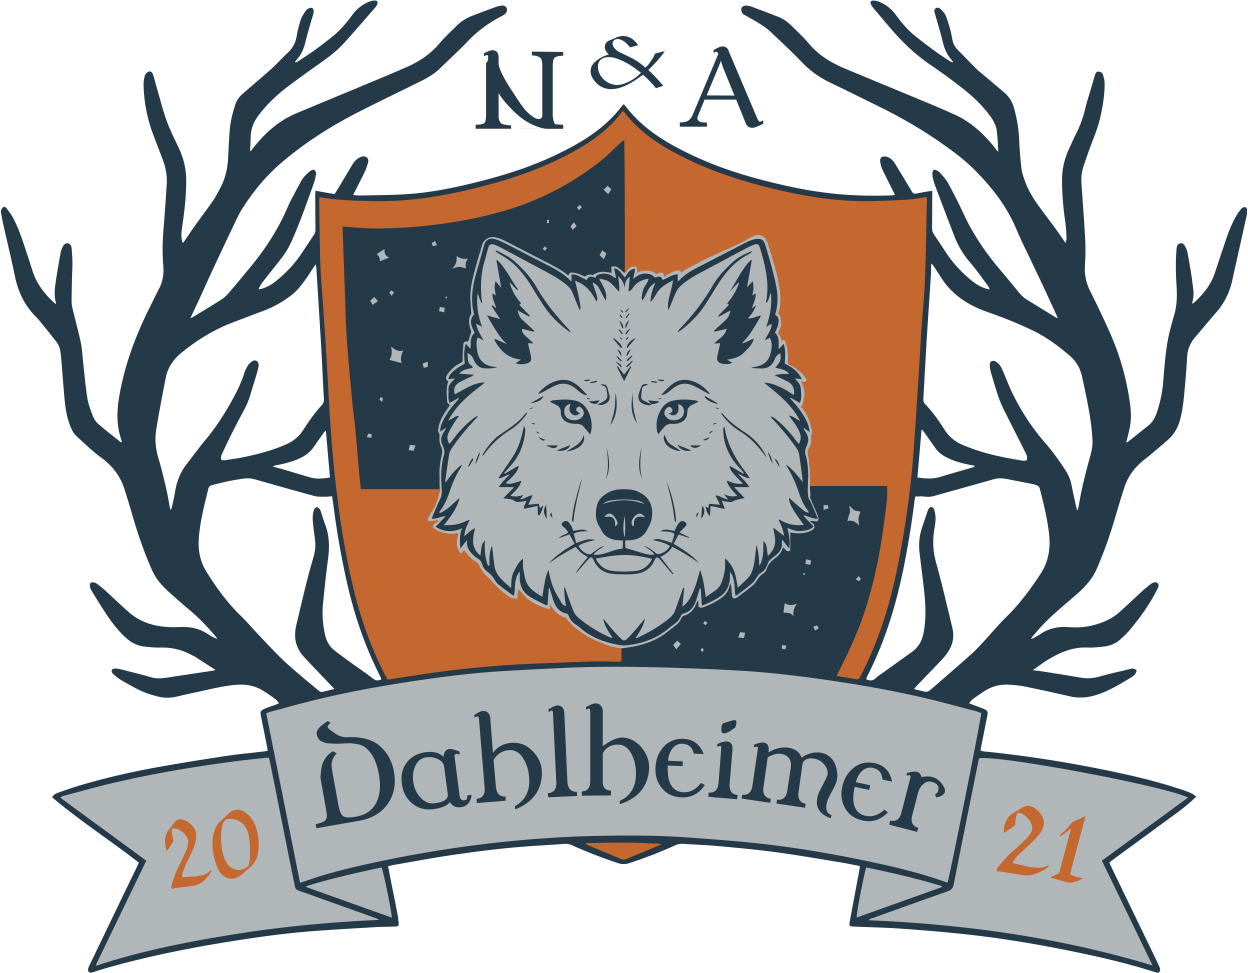
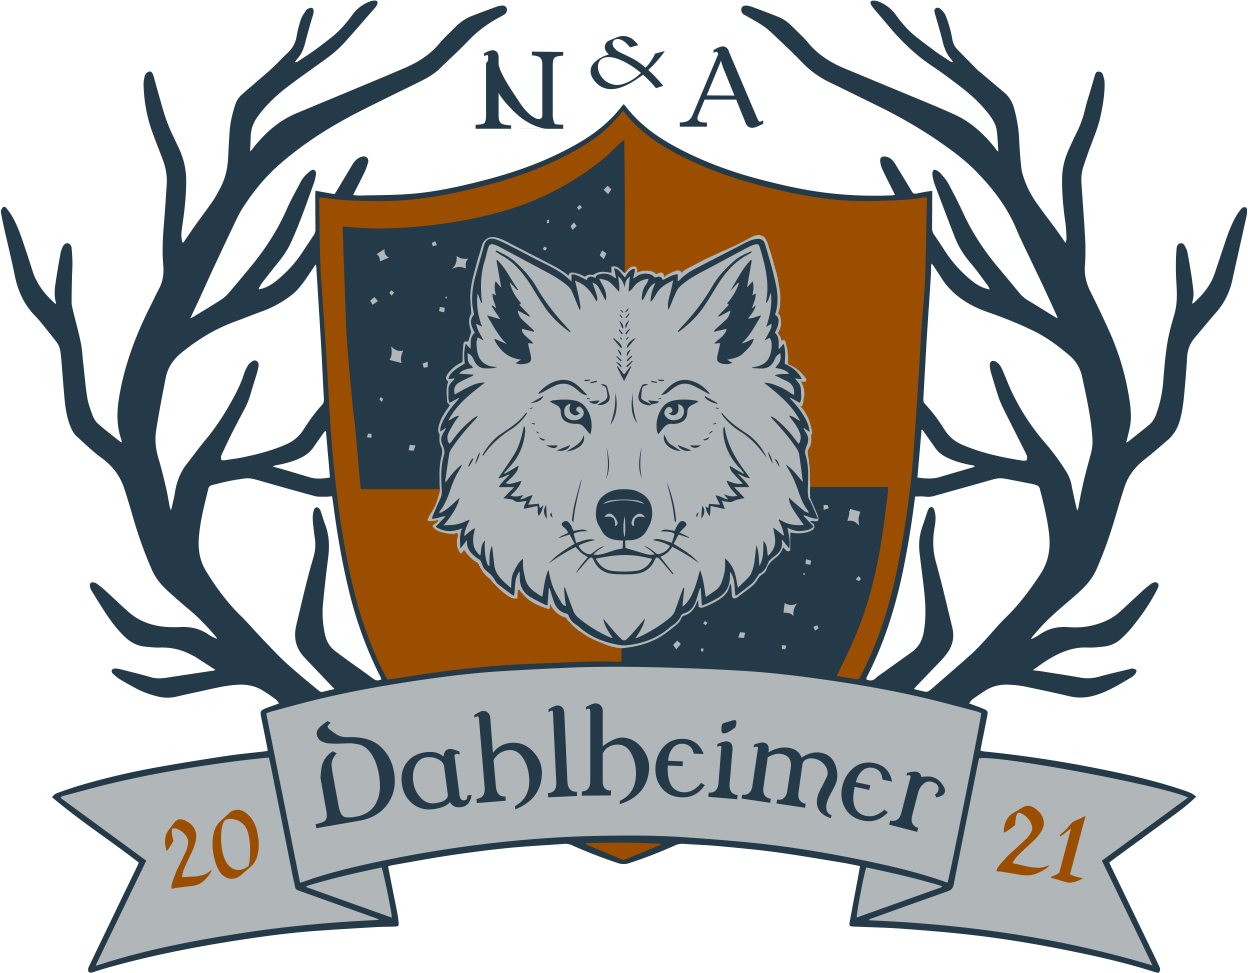
Modify Venue

diff --git a/event.html b/event.html
@@ -4,6 +4,7 @@
     <title>The Dahlheimers | Event</title>
     <link rel="stylesheet" href="./resources/css/general.css" type="text/css">
     <link rel="stylesheet" href="./resources/css/event.css" type="text/css">
+    <script async defer data-domain="thedahlheimers.com" src="https://analytics.phasematter.com/js/plausible.js"></script>
 </head>
 
 <body>
@@ -43,9 +44,8 @@
                     <div class="text-box">
                         <h3>Where?</h3>
                         <p>
-                            Riverview Event Hall<br>
-                            Eugene T. Mahoney State Park <br>
-                            28500 W Park Hwy <br>
+                            Quarry Oaks Golf Club<br>
+                            16600 Quarry Oaks Dr <br>
                             Ashland, NE <br>
                         </p>
                     </div>
@@ -58,10 +58,10 @@
                             5:30pm
                         </p>
                     </div>
-                    
+
                 </div>
                 <iframe 
-                    src="https://www.google.com/maps/embed?pb=!1m14!1m8!1m3!1d12039.993462653241!2d-96.3139126!3d41.0252917!3m2!1i1024!2i768!4f13.1!3m3!1m2!1s0x0%3A0xd1e25e87f00410b3!2sEugene%20T.%20Mahoney%20State%20Park!5e0!3m2!1sen!2sus!4v1610398239553!5m2!1sen!2sus" 
+                    src="https://www.google.com/maps/embed?pb=!1m14!1m8!1m3!1d12042.833819280539!2d-96.276712!3d41.009754!3m2!1i1024!2i768!4f13.1!3m3!1m2!1s0x0%3A0x95955204d5faaa89!2sQuarry%20Oaks%20Golf%20Club!5e0!3m2!1sen!2sus!4v1621988528367!5m2!1sen!2sus" 
                     frameborder="0" 
                     style="border:0;" 
                     allowfullscreen="" 
@@ -77,24 +77,23 @@
                     <div class="text-box">
                         <h3>Location</h3>
                         <p>
-                            Following the ceremony, the reception will be held across the street at the Strategic Air Command & Aerospace Museum. Guests are invited to take 
-                            advantage of Ollie the Trolley as a shuttle from the ceremony to the reception location.
+                            Following the ceremony, the reception will be held down the street at the Strategic Air Command & Aerospace Museum. Trolley service will be provided
+                            to shuttle guests from the ceremony to the reception.
                         </p>
                     </div>
 
                     <div class="text-box">
                         <h3>Food</h3>
                         <p>
-                            Help yourself to a BBQ buffet including Pork Sliders, Gourmet Macaroni & Cheese, Baked Beans, Salad, and a Mashed Potato Bar. Water will be provided
-                            free of charge, and beverages other than water can be purchased at the cash bar. 
+                            Help yourself to a BBQ buffet including Pork Sliders, Gourmet Macaroni & Cheese, Baked Beans, Salad, and a Mashed Potato Bar. Drinks from the bar
+                            are on us from 6:30pm - 8pm, and will be available for cash for the remainder of the event.
                         </p>
                     </div>
 
                     <div class="text-box">
                         <h3>Music</h3>
                         <p>
-                            During the reception, please enjoy the live musical stylings of Frankie Lee and the Infernos! There will be plenty of room to dance, 
-                            so please do! We can't wait to see all your moves.
+                            Music will be played throughout the reception, so please dance to your heart's content. We can't wait to see your moves!
                         </p>
                     </div>
                 </div>

diff --git a/rsvp.html b/rsvp.html
@@ -4,6 +4,7 @@
     <title>The Dahlheimers | RSVP</title>
     <link rel="stylesheet" href="./resources/css/general.css" type="text/css">
     <link rel="stylesheet" href="./resources/css/rsvp.css" type="text/css">
+    <script async defer data-domain="thedahlheimers.com" src="https://analytics.phasematter.com/js/plausible.js"></script>
 </head>
 
 <body>
@@ -47,28 +48,23 @@
                             <section class="second">
                                 <span>Will you be attending?</span><br>
                                 <select name="entry.420027344" id="attending" required>
-                                    <option value="yes">Yes</option>
-                                    <option value="no">No</option>
+                                    <option value="Omaha">Yes - The Omaha Ceremony/Reception</option>
+                                    <option value="Vegas">Yes - The Vegas Reception</option>
+                                    <option value="Both">Yes - Both!</option>
+                                    <option value="Neither">Not attending either event</option>
                                 </select>
                             </section>
                         </div>
                         
                         
-                        <div id="if-attending" class="line">
-                            <section class="first">
-                                <label for="party-number"># Attending:</label><br>
-                                <input type="number" name="entry.1246041859" id="party-number" placeholder="1" required><br>
-                            </section>
-
-                            <section class="second">
-                                <label for="party-list">Their Names:</label><br>
+                        <section id="if-attending">
+                                <label for="party-list">Who's coming with you?</label><br>
                                 <textarea name="entry.2096589025" id="party-list" cols="30" rows="3" placeholder="First Last, First Last, First Last" required></textarea>
-                            </section>
-                        </div>
+                        </section>
                       
 
                         <section>
-                            <label for="diet-restrictions">Dietary Restrictions?</label><br>
+                            <label for="diet-restrictions">Any dietary restrictions?</label><br>
                             <textarea name="entry.2016472176" id="diet-restrictions" cols="30" rows="5" placeholder="ie; allergies, vegetarian, vegan..."></textarea>
                         </section>
 

diff --git a/lodging.html b/lodging.html
@@ -4,6 +4,7 @@
     <title>The Dahlheimers | Lodging</title>
     <link rel="stylesheet" href="./resources/css/general.css" type="text/css">
     <link rel="stylesheet" href="./resources/css/lodging.css" type="text/css">
+    <script async defer data-domain="thedahlheimers.com" src="https://analytics.phasematter.com/js/plausible.js"></script>
 </head>
 
 <body>
@@ -35,7 +36,7 @@
             <section id="intro" class="text">
                 <h2>Lodging</h2>
                 <div class="text-box">
-                    <p>There are multiple lodging options available at Mahoney State Park for guests who would like to stay on property. Rooms are available in Peter Kiewit Lodge starting at $90/night, or 
+                    <p>There are multiple lodging options available at Mahoney State Park for guests who would like to stay nearby. Rooms are available in Peter Kiewit Lodge starting at $90/night, or 
                         stay in a cabin with 2-6 bedrooms starting at $170/night. 
                     </p>
                     <p>

diff --git a/resources/css/rsvp.css b/resources/css/rsvp.css
@@ -48,7 +48,7 @@ input, select, textarea, button {
 
 button {
     color: rgba(213, 211, 210, 1);
-    background-color: rgba(196, 104, 48, 1);
+    background-color: rgba(156, 78, 0, 1);
     border: none;
     border-radius: 1rem;
     padding: 0.5rem;
@@ -58,7 +58,7 @@ button {
 
 button:hover {
     color: white;
-    background-color: rgba(196, 104, 48, 0.5);
+    background-color: rgba(156, 78, 0, 0.5);
 }
 
 @media only screen and (orientation: portrait) {
@@ -72,5 +72,13 @@ button:hover {
 
     .first, .second {
         padding: 0;
+    }
+
+    form, textarea, select, input, button {
+        font-size: 2rem;
+    }
+
+    option {
+        font-size: 1rem;
     }
 }

diff --git a/resources/css/lodging.css b/resources/css/lodging.css
@@ -19,7 +19,7 @@
 }
 
 a {
-    color: rgba(196, 104, 48, 1);
+    color: rgba(156, 78, 0, 1);
     text-decoration: none;
     transition-property: color;
     transition-duration: 0.5s;
@@ -27,7 +27,7 @@ a {
 
 button {
     color: rgba(213, 211, 210, 1);
-    background-color: rgba(196, 104, 48, 1);
+    background-color: rgba(156, 78, 0, 1);
     font-size: 1rem;
     border: none;
     border-radius: 1rem;
@@ -37,10 +37,10 @@ button {
 }
 
 a:hover {
-    color: rgba(196, 104, 48, 0.5);
+    color: rgba(147, 72, 0, 0.5);
 }
 
 button:hover {
     color: white;
-    background-color: rgba(196, 104, 48, 0.5);
+    background-color: rgba(147, 72, 0, 0.5);
 }

diff --git a/resources/css/general.css b/resources/css/general.css
@@ -115,11 +115,11 @@ nav a {
 }
 
 nav a:hover {
-    color:rgba(196, 104, 48, 1);
+    color:rgba(156, 78, 0, 1);
 }
 
 #active {
-    border-bottom: 2px solid rgba(196, 104, 48, 1);
+    border-bottom: 2px solid rgba(156, 78, 0, 1);
 }
 
 #left-nav,
@@ -164,7 +164,7 @@ main section {
     font-weight: 200;
     font-size: 2rem;
     text-transform: capitalize;
-    color: rgba(196, 104, 48, 1);
+    color: rgba(156, 78, 0, 1);
     border-radius: 0.65rem;
 }
 
@@ -220,7 +220,7 @@ footer {
 }
 
 #credit a {
-    color: rgba(196, 104, 48, 1);
+    color: rgba(156, 78, 0, 1);
     text-decoration: none;
 }
 

diff --git a/index.html b/index.html
@@ -5,7 +5,7 @@
     <title>The Dahlheimers | Wedding</title>
     <link rel="stylesheet" href="./resources/css/general.css" type="text/css">
     <link rel="stylesheet" href="./resources/css/index.css" type="text/css">
-    
+    <script async defer data-domain="thedahlheimers.com" src="https://analytics.phasematter.com/js/plausible.js"></script>
 </head>
 
 <body>

diff --git a/registry.html b/registry.html
@@ -4,6 +4,7 @@
     <title>The Dahlheimers | Registry</title>
     <link rel="stylesheet" href="./resources/css/general.css" type="text/css">
     <link rel="stylesheet" href="./resources/css/registry.css" type="text/css">
+    <script async defer data-domain="thedahlheimers.com" src="https://analytics.phasematter.com/js/plausible.js"></script>
 </head>
 
 <body>

diff --git a/team.html b/team.html
@@ -5,7 +5,7 @@
     <title>The Dahlheimers | Team</title>
     <link rel="stylesheet" href="./resources/css/general.css" type="text/css">
     <link rel="stylesheet" href="./resources/css/team.css" type="text/css">
-    
+    <script async defer data-domain="thedahlheimers.com" src="https://analytics.phasematter.com/js/plausible.js"></script>
 </head>
 
 <body>

diff --git a/rsvp-submit.html b/rsvp-submit.html
@@ -4,6 +4,7 @@
     <title>The Dahlheimers | RSVP</title>
     <link rel="stylesheet" href="./resources/css/general.css" type="text/css">
     <link rel="stylesheet" href="./resources/css/rsvp.css" type="text/css">
+    <script async defer data-domain="thedahlheimers.com" src="https://analytics.phasematter.com/js/plausible.js"></script>
 </head>
 
 <body>

diff --git a/resources/css/team.css b/resources/css/team.css
@@ -31,7 +31,7 @@
 
 .name {
     font-weight: 700;
-    color: rgba(196, 104, 48, 1);
+    color: rgba(156, 78, 0, 1);
 }
 
 .title {

diff --git a/resources/css/event.css b/resources/css/event.css
@@ -1,5 +1,5 @@
 h3 {
-    color: rgba(196, 104, 48, 1);
+    color: rgba(156, 78, 0, 1);
 }
 
 /* Main Body */
